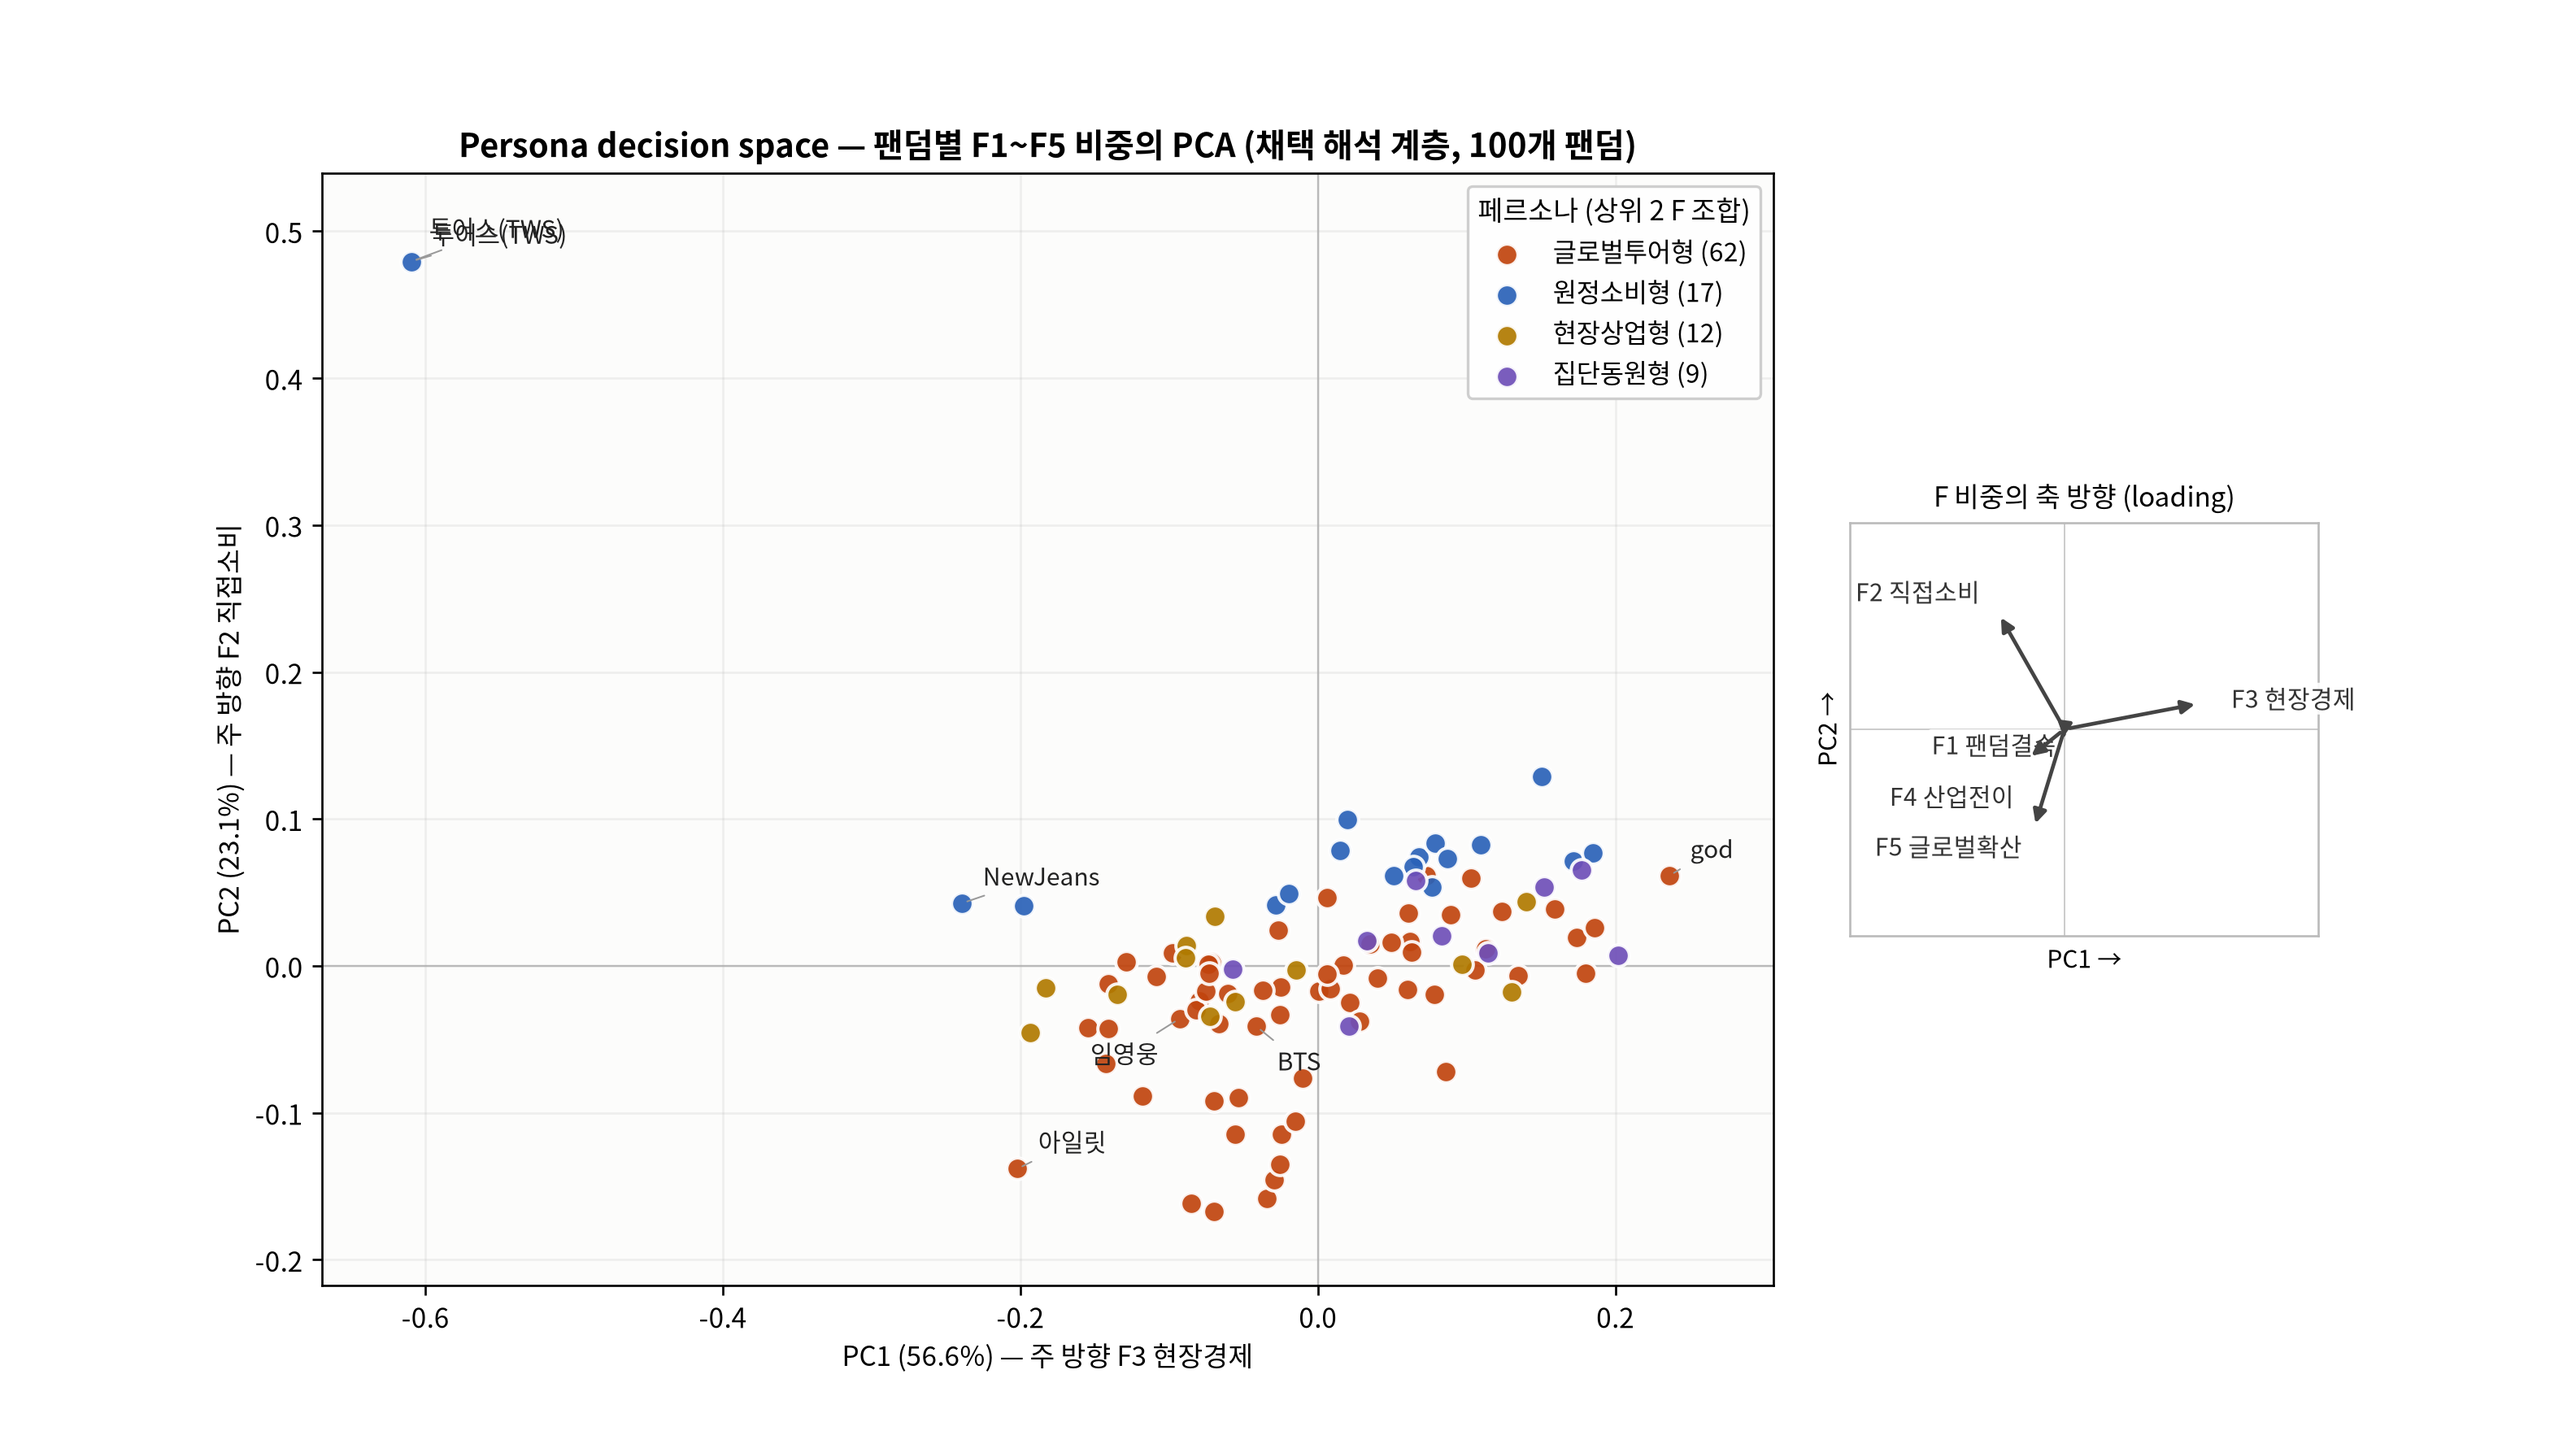
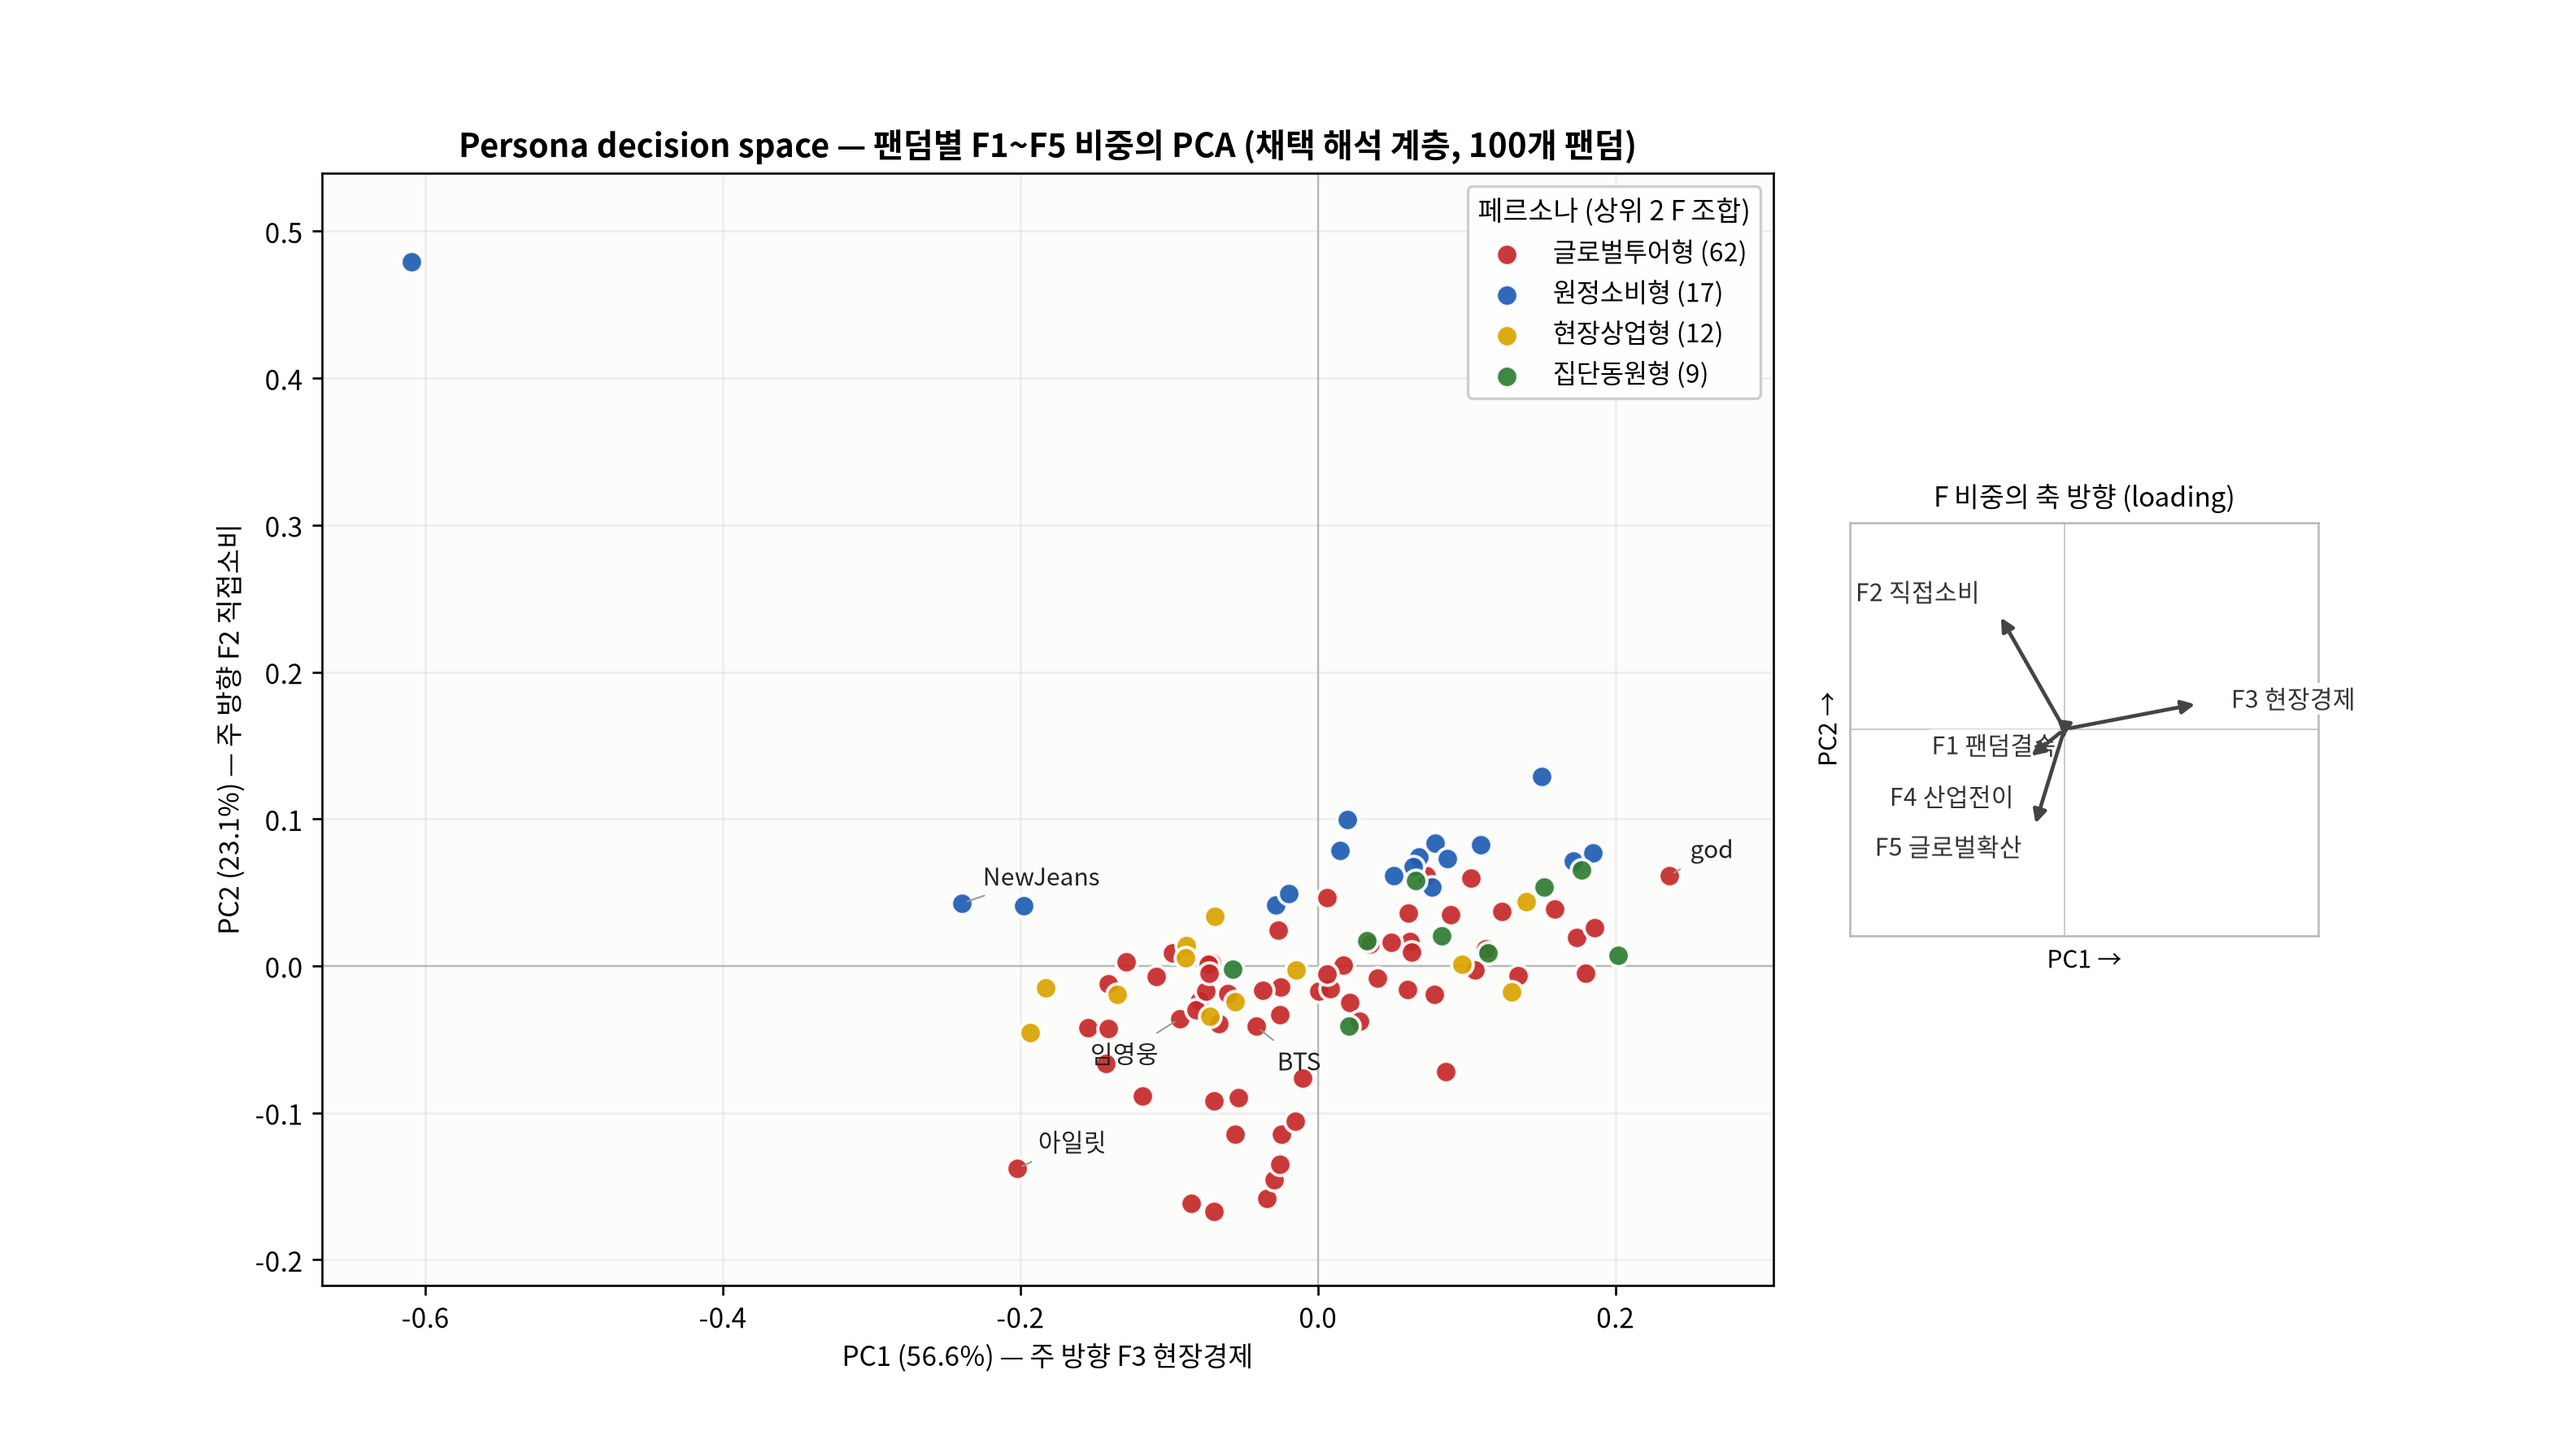
그림 5·6·7 색상 조정: 페르소나 빨·파·노·초, 경로 분해 밝은 5색, PCA는 투어스 라벨 제거·페르소나 색 통일
- fig05 페르소나 맵: 글로벌투어형 빨강·원정소비형 파랑·현장상업형 노랑·집단동원형 초록(검증 통과, 노랑은 범례·흰 테두리로 대비 보완)
- fig06 경로별 분해: F1∼F5를 밝고 차분한 5색(파랑·살구·라벤더·청록·모래색)으로, 인접쌍 분리 검증 통과
- fig07b PCA: 투어스(TWS) 라벨 제거(점만 표시), 페르소나 색은 fig05와 동일 팔레트
- live_pca_v7.json의 palette 갱신

Claude-Session: https://claude.ai/code/session_01VWuqhk8UFpTen2BecLssSX

Changed region(s): [[0.4062, 0.5884, 0.625, 0.7432], [0.4688, 0.7432, 0.5, 0.8361], [0.1562, 0.1548, 0.2188, 0.1858]]

diff --git a/v7_final_10020/charts/build_live_layer_figures_v7.py b/v7_final_10020/charts/build_live_layer_figures_v7.py
@@ -25,7 +25,8 @@ plt.rcParams["font.family"] = "Noto Sans CJK KR" if any("Noto Sans CJK KR" == f.
 P = json.load(open(L / "live_persona_v7.json", encoding="utf-8")); pay = json.load(open(BASE / "data" / "v7_final" / "chart3d_payload_live_reference_v7.json", encoding="utf-8"))
 fs = P["fandoms"]; cnt = P["persona_counts"]; FC = ["F1", "F2", "F3", "F4", "F5"]
 FN = {"F1": "F1 팬덤결속", "F2": "F2 직접소비", "F3": "F3 현장경제", "F4": "F4 산업전이", "F5": "F5 글로벌확산"}
-PALETTE = ["#c1440e", "#2a62b8", "#b07a00", "#6f4fb8", "#3d8a3d"]  # 앞 4색 검증 통과; 5번째는 실현 페르소나가 5개일 때만
+PALETTE = ["#c62828", "#1e5cb3", "#d9a300", "#2e7d32", "#6f4fb8"]  # 페르소나: 빨·파·노·초(팬덤 수 내림차순), 검증 통과(노랑은 대비 WARN → 범례·흰 테두리로 보완); 5번째는 실현 페르소나가 5개일 때만
+FPAL = ["#4f93cf", "#ee9c55", "#9d86d3", "#3fb0a0", "#c9ad3f"]  # F1∼F5 경로(그림 6): 밝고 차분한 5색, 인접쌍 CVD·정상시 분리 검증 통과(대비 WARN → 범례·흰 간격으로 보완)
 COL = {per: PALETTE[i] for i, per in enumerate(sorted(cnt, key=lambda k: -cnt[k]))}
 SURF = "#fcfcfb"; TAG = P.get("model", "")[:30]
 
@@ -53,7 +54,7 @@ fig, axes = plt.subplots(1, 2, figsize=(14, 7.4), dpi=240, sharey=True)
 for ax, key, ttl in ((axes[0], "factor_specific_loyalty", "팬충성도 분해 (비중 × 점수)"), (axes[1], "factor_specific_spillover", "파급효과 분해 (비중 × 점수)")):
     ax.set_facecolor(SURF); left = np.zeros(len(names))
     for i, fc in enumerate(FC):
-        vals = np.array([byname[n][key].get(fc, 0) for n in names]); ax.barh(range(len(names)), vals, left=left, color=PALETTE[i], edgecolor="white", linewidth=.8, label=FN[fc]); left += vals
+        vals = np.array([byname[n][key].get(fc, 0) for n in names]); ax.barh(range(len(names)), vals, left=left, color=FPAL[i], edgecolor="white", linewidth=1.0, label=FN[fc]); left += vals
     ax.set_yticks(range(len(names))); ax.set_yticklabels(names, fontsize=9.5); ax.invert_yaxis(); ax.set_title(ttl, fontsize=11); ax.grid(axis="x", alpha=.2)
 axes[0].legend(fontsize=8.5, loc="lower right"); fig.suptitle("경로별(F1~F5) 팬충성도·파급효과 분해 — BTS·임영웅·리센느 + 합산 상위 17", fontsize=12, weight="bold"); fig.tight_layout(); fig.savefig(OUT / f"fig06_factor_specific_impact{SUF}.png"); plt.close(fig)
 
@@ -64,7 +65,7 @@ d = np.linalg.norm(pc - pc.mean(0), axis=1); far = [fs[i]["fandom"] for i in np.
 fig = plt.figure(figsize=(13.2, 7.4), dpi=240); gs = fig.add_gridspec(1, 2, width_ratios=[3.1, 1], wspace=0.08); ax = fig.add_subplot(gs[0]); ins = fig.add_subplot(gs[1]); ax.set_facecolor(SURF)
 for per, col in COL.items():
     idx = [i for i, f in enumerate(fs) if f["persona"] == per]; ax.scatter(pc[idx, 0], pc[idx, 1], s=64, c=col, alpha=.92, edgecolors="white", linewidths=1.2, label=f"{per} ({len(idx)})", zorder=3)
-marks = [(n, 0.014, 0.012, "left") for n in far] + [("BTS", 0.014, -0.03, "left"), ("임영웅", -0.014, -0.03, "right"), ("투어스(TWS)", 0.012, 0.016, "left")]
+marks = [(n, 0.014, 0.012, "left") for n in far if n != "투어스(TWS)"] + [("BTS", 0.014, -0.03, "left"), ("임영웅", -0.014, -0.03, "right")]  # 투어스는 라벨 없이 점만(저자 요청)
 label_points(ax, pc[:, 0], pc[:, 1], marks)
 ax.axhline(0, color="#bbb", lw=.7, zorder=1); ax.axvline(0, color="#bbb", lw=.7, zorder=1); ax.grid(alpha=.18, zorder=0)
 lead = lambda k: FN[FC[int(np.argmax(np.abs(pca.components_[k])))]]
